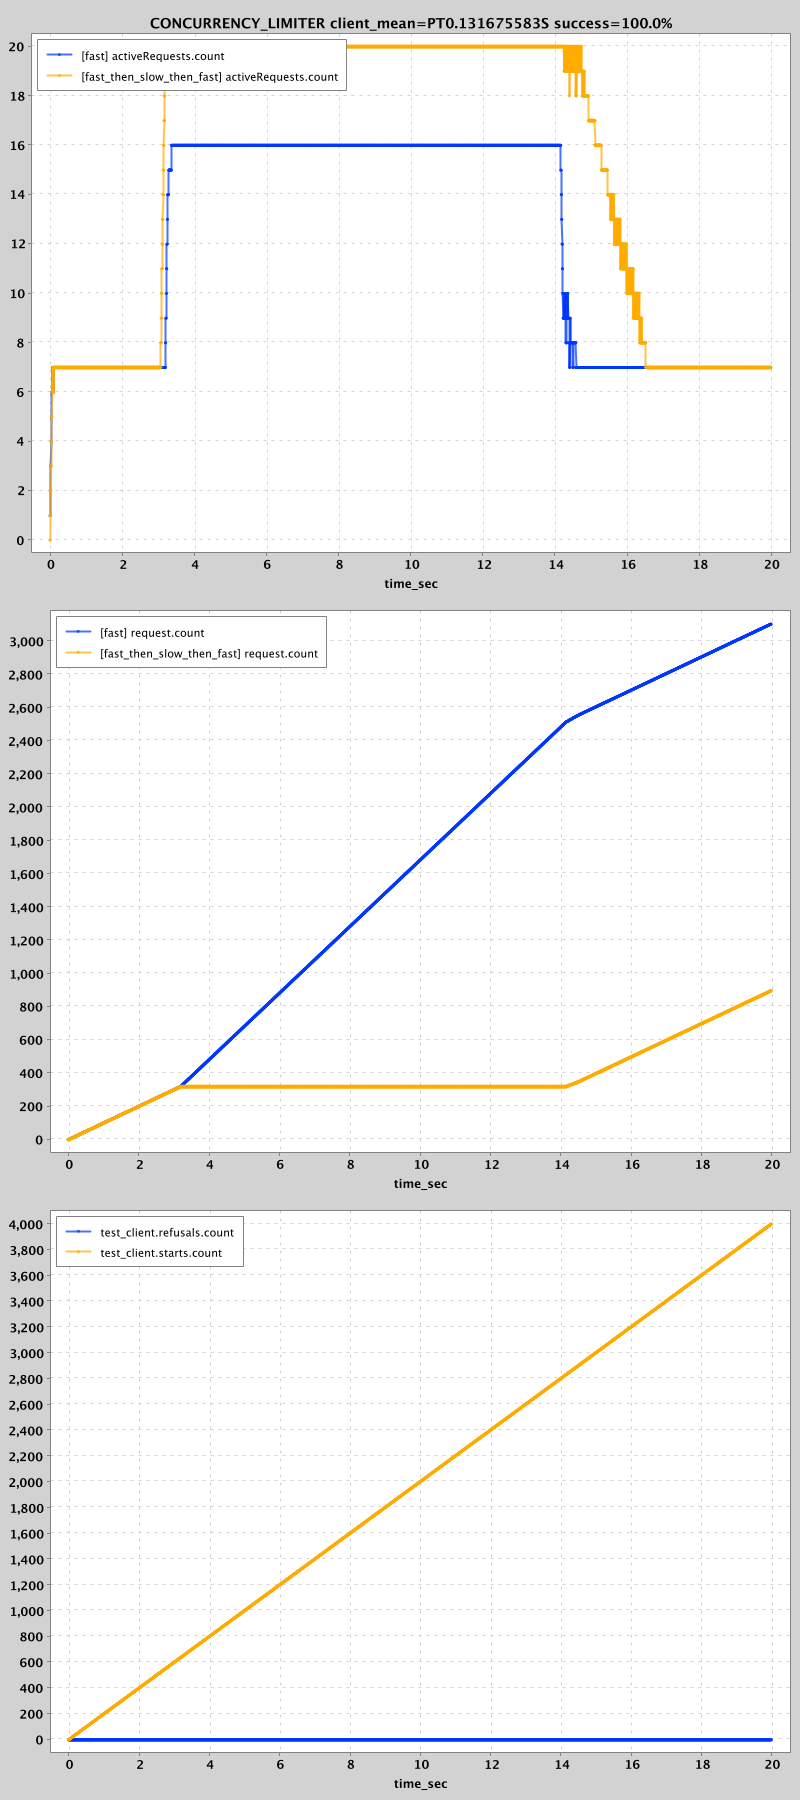
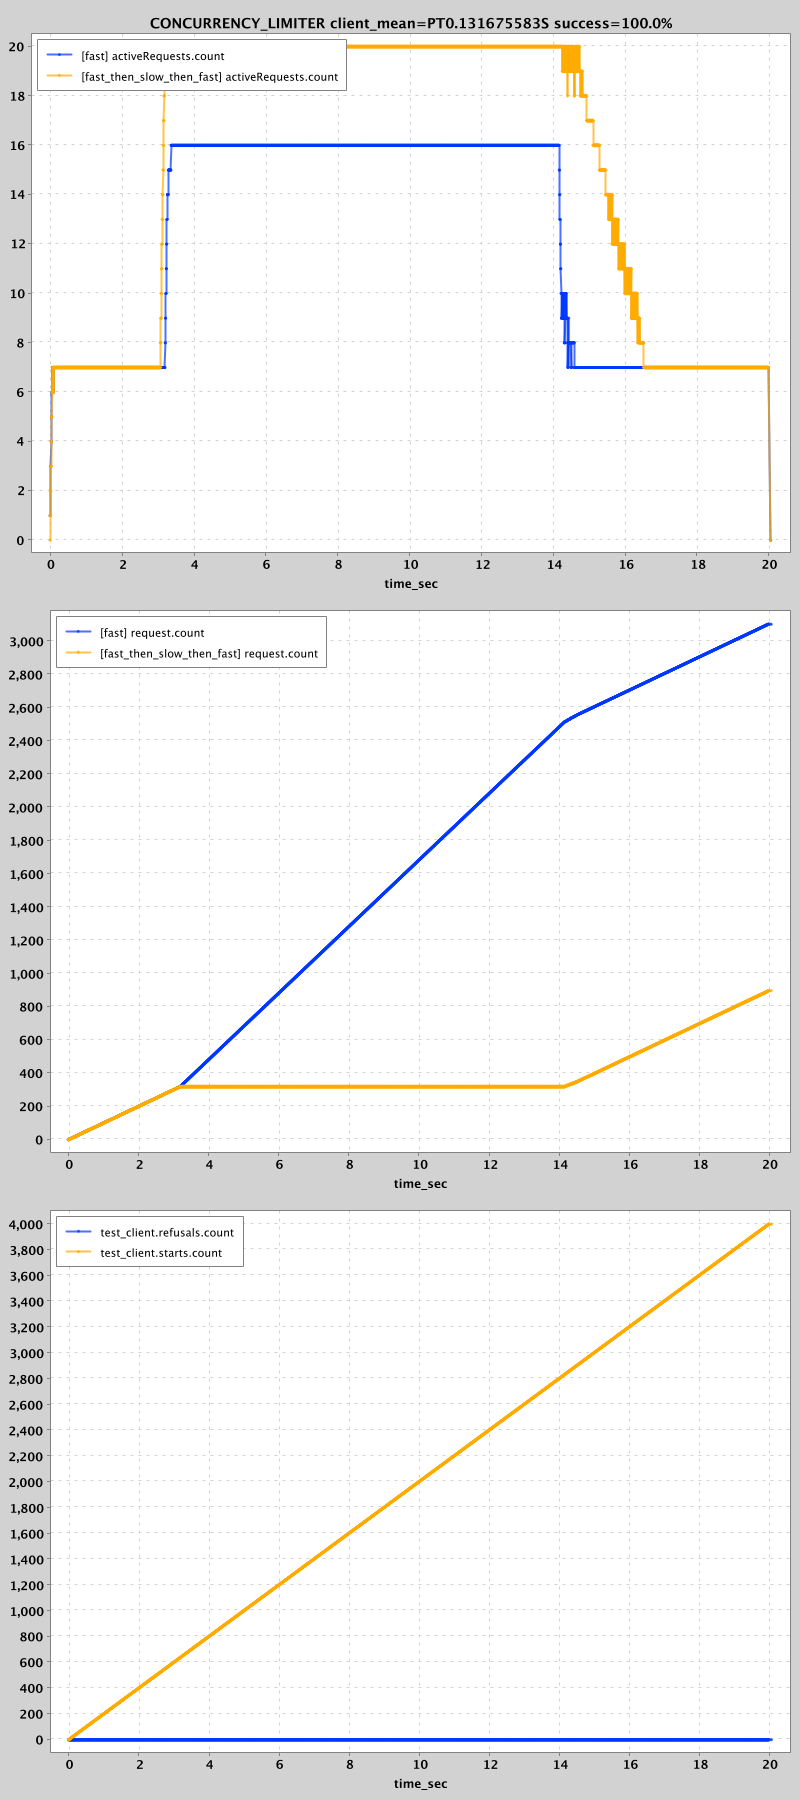
New black_hole scenario

diff --git a/simulation/src/main/java/com/palantir/dialogue/core/Benchmark.java b/simulation/src/main/java/com/palantir/dialogue/core/Benchmark.java
@@ -88,52 +88,50 @@ public final class Benchmark {
     }
 
     public Benchmark stopWhenNumReceived(long numReceived) {
-        benchmarkFinished = (time, _requestsStarted, responsesReceived) ->
-                (time.compareTo(Duration.ofDays(1)) > 0) || responsesReceived >= numReceived;
+        SettableFuture<Void> future = SettableFuture.create();
+        benchmarkFinished = new ShouldStopPredicate() {
+            @Override
+            public SettableFuture<Void> getFuture() {
+                return future;
+            }
+
+            @Override
+            public void update(Duration time, int requestsStarted, int responsesReceived) {
+                if (responsesReceived >= numReceived) {
+                    future.set(null);
+                }
+            }
+        };
+        return this;
+    }
+
+    public Benchmark abortAfter(Duration cutoff) {
+        simulation.schedule(
+                () -> {
+                    benchmarkFinished.getFuture().set(null);
+                },
+                cutoff.toNanos(),
+                TimeUnit.NANOSECONDS);
         return this;
     }
 
     public BenchmarkResult run() {
-        SettableFuture<BenchmarkResult> result = schedule();
+        ListenableFuture<BenchmarkResult> result = schedule();
         simulation.runClockToInfinity();
         return Futures.getUnchecked(result);
     }
 
     @SuppressWarnings("FutureReturnValueIgnored")
-    public SettableFuture<BenchmarkResult> schedule() {
+    public ListenableFuture<BenchmarkResult> schedule() {
         Instant realStart = Instant.now();
-        SettableFuture<BenchmarkResult> done = SettableFuture.create();
-
         HistogramChannel histogramChannel = new HistogramChannel(simulation, channel);
 
         int[] requestsStarted = new int[] {0};
         int[] responsesReceived = new int[] {0};
-
         Map<String, Integer> statusCodes = new HashMap<>();
-        Runnable maybeTerminate = () -> {
-            responsesReceived[0] += 1;
-
-            if (benchmarkFinished.shouldStop(
-                    Duration.ofNanos(simulation.clock().read()), requestsStarted[0], responsesReceived[0])) {
-                BenchmarkResult result = ImmutableBenchmarkResult.builder()
-                        .clientHistogram(histogramChannel.getHistogram().getSnapshot())
-                        .endTime(Duration.ofNanos(simulation.clock().read()))
-                        .statusCodes(statusCodes)
-                        .successPercentage(Math.round(statusCodes.get("200") * 1000d / responsesReceived[0]) / 10d)
-                        .build();
-                log.info(
-                        "Finished simulation: client_mean={}, end_time={}, success={}% codes={} ({} ms)",
-                        Duration.ofNanos((long) result.clientHistogram().getMean()),
-                        result.endTime(),
-                        result.successPercentage(),
-                        result.statusCodes(),
-                        Duration.between(realStart, Instant.now()));
-                done.set(result);
-            }
-        };
 
         requestStream.forEach(req -> {
-            FutureCallback<Response> accumulateStatusCodes = new FutureCallback<Response>() {
+            FutureCallback<Response> accumulateStatusCodes = new FutureCallback<>() {
                 @Override
                 public void onSuccess(Response response) {
                     statusCodes.compute(Integer.toString(response.code()), (c, num) -> num == null ? 1 : num + 1);
@@ -156,13 +154,46 @@ public final class Benchmark {
                         requestsStarted[0] += 1;
 
                         Futures.addCallback(future, accumulateStatusCodes, MoreExecutors.directExecutor());
-                        future.addListener(maybeTerminate, MoreExecutors.directExecutor());
+                        future.addListener(
+                                () -> {
+                                    responsesReceived[0] += 1;
+                                    benchmarkFinished.update(
+                                            Duration.ofNanos(simulation.clock().read()),
+                                            requestsStarted[0],
+                                            responsesReceived[0]);
+                                },
+                                MoreExecutors.directExecutor());
                     },
                     req.sendTime().toNanos(),
                     TimeUnit.NANOSECONDS);
         });
 
-        return done;
+        benchmarkFinished.getFuture().addListener(simulation.metrics()::report, MoreExecutors.directExecutor());
+
+        return Futures.transform(
+                benchmarkFinished.getFuture(),
+                v -> {
+                    BenchmarkResult result = ImmutableBenchmarkResult.builder()
+                            .clientHistogram(histogramChannel.getHistogram().getSnapshot())
+                            .endTime(Duration.ofNanos(simulation.clock().read()))
+                            .statusCodes(statusCodes)
+                            .successPercentage(Math.round(statusCodes.get("200") * 1000d / requestsStarted[0]) / 10d)
+                            .numSent(requestsStarted[0])
+                            .numReceived(responsesReceived[0])
+                            .build();
+                    log.info(
+                            "Finished simulation: client_mean={}, end_time={}, success={}% received={}/{} codes={} "
+                                    + "({} ms)",
+                            Duration.ofNanos((long) result.clientHistogram().getMean()),
+                            result.endTime(),
+                            result.successPercentage(),
+                            result.numReceived(),
+                            result.numSent(),
+                            result.statusCodes(),
+                            Duration.between(realStart, Instant.now()));
+                    return result;
+                },
+                MoreExecutors.directExecutor());
     }
 
     private Stream<ScheduledRequest> infiniteRequests(Duration interval) {
@@ -184,10 +215,16 @@ public final class Benchmark {
         Map<String, Integer> statusCodes();
 
         double successPercentage();
+
+        int numSent();
+
+        int numReceived();
     }
 
     interface ShouldStopPredicate {
-        boolean shouldStop(Duration time, int requestsStarted, int responsesReceived);
+        SettableFuture<Void> getFuture();
+
+        void update(Duration time, int requestsStarted, int responsesReceived);
     }
 
     @Value.Immutable

diff --git a/simulation/src/test/java/com/palantir/dialogue/core/SimulationTest.java b/simulation/src/test/java/com/palantir/dialogue/core/SimulationTest.java
@@ -17,12 +17,10 @@
 package com.palantir.dialogue.core;
 
 import static org.mockito.Mockito.mock;
-import static org.mockito.Mockito.when;
 
 import com.codahale.metrics.Counter;
 import com.codahale.metrics.Meter;
 import com.google.common.collect.ImmutableList;
-import com.google.common.collect.ImmutableMap;
 import com.google.common.util.concurrent.Futures;
 import com.google.common.util.concurrent.ListenableFuture;
 import com.palantir.dialogue.Channel;
@@ -241,7 +239,6 @@ public class SimulationTest {
 
     @Test
     public void all_nodes_500() {
-        int capacity = 60;
         Channel[] servers = {
             SimulationServer.builder()
                     .metricName("node1")
@@ -279,6 +276,37 @@ public class SimulationTest {
                 .run();
     }
 
+    @Test
+    public void black_hole() {
+        Channel[] servers = {
+                SimulationServer.builder()
+                        .metricName("node1")
+                        .response(response(200))
+                        .responseTimeConstant(Duration.ofMillis(600))
+                        .simulation(simulation)
+                        .build(),
+                SimulationServer.builder()
+                        .metricName("node2_black_hole")
+                        .response(response(200))
+                        .responseTimeConstant(Duration.ofMillis(600))
+                        .simulation(simulation)
+                        // at this point, the server is effectively a black hole
+                        .untilTime(Duration.ofSeconds(3))
+                        .responseTimeConstant(Duration.ofDays(1))
+                        .build()
+        };
+
+        Channel channel = strategy.getChannel.apply(simulation, servers);
+
+        result = Benchmark.builder()
+                .simulation(simulation)
+                .requestsPerSecond(20)
+                .sendUntil(Duration.ofSeconds(10))
+                .abortAfter(Duration.ofSeconds(30))
+                .channel(channel)
+                .run();
+    }
+
     @After
     public void after() {
         String title = String.format(
@@ -300,12 +328,6 @@ public class SimulationTest {
 
     private static Response response(int status) {
         return SimulationUtils.response(status, "1.0.0");
-    }
-
-    private static Request request(String traceId) {
-        Request req = mock(Request.class);
-        when(req.headerParams()).thenReturn(ImmutableMap.of("X-B3-TraceId", traceId));
-        return req;
     }
 
     private static Channel lowestUtilization(Simulation sim, Channel... channels) {

diff --git a/simulation/src/main/java/com/palantir/dialogue/core/SimulationServer.java b/simulation/src/main/java/com/palantir/dialogue/core/SimulationServer.java
@@ -62,7 +62,7 @@ final class SimulationServer implements Channel {
         simulation.metrics().report();
         return simulation.schedule(
                 () -> {
-                    log.info(
+                    log.debug(
                             "time={} server={} status={} duration={} traceid={}",
                             Duration.ofNanos(simulation.clock().read()),
                             metricName,
